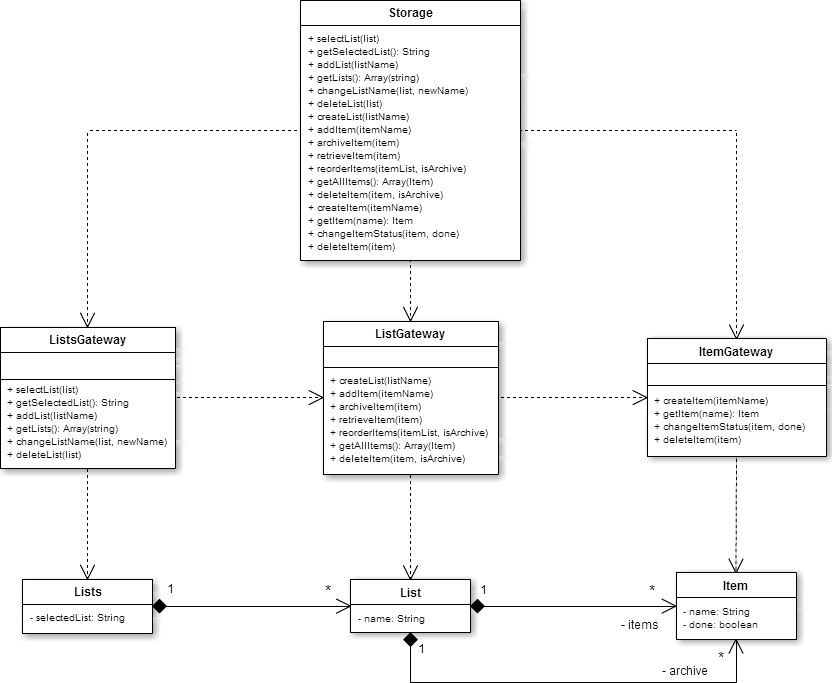
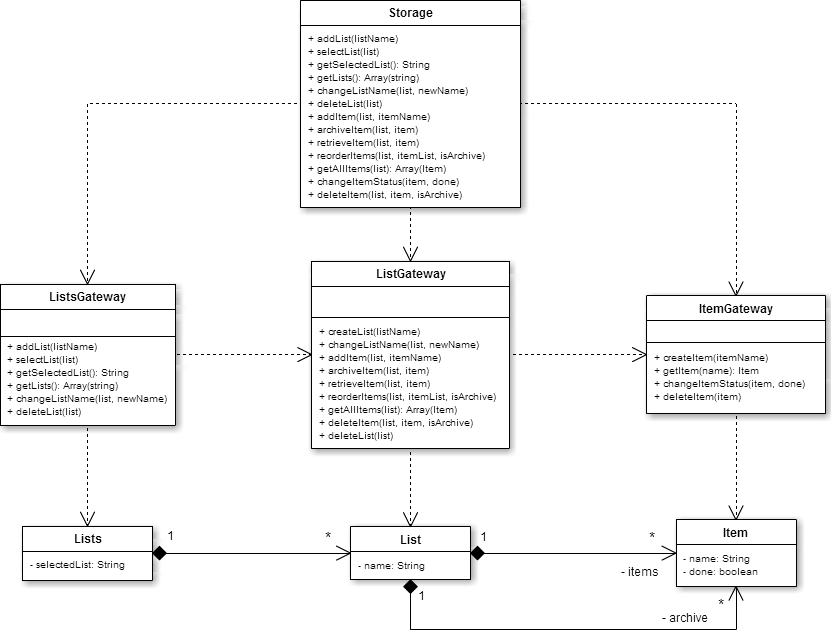
Updated services readme. Fixed list deletion bug. Tested gateway interconnection.

diff --git a/src/js/service/storage.js b/src/js/service/storage.js
@@ -128,6 +128,78 @@ module.exports = function(listsGateway, listGateway, itemGateway) {
 		return true;
 	};
 
+	this.addItem = function(list, itemName, callback) {
+		if (!this.init) {
+			this.getLists(function() {
+				self.init = listGateway.addItem(list, itemName, callback);
+			});
+		}
+		else listGateway.addItem(list, itemName, callback);
+	};
+
+	this.archiveItem = function(list, item, callback) {
+		if (!this.init) {
+			this.getLists(function() {
+				self.init = listGateway.archiveItem(list, item, callback);
+			});
+		}
+		else listGateway.archiveItem(list, item, callback);
+	};
+
+	this.retrieveItem = function(list, item, callback) {
+		if (!this.init) {
+			this.getLists(function() {
+				self.init = listGateway.retrieveItem(list, item, callback);
+			});
+		}
+		else listGateway.retrieveItem(list, item, callback);
+	};
+
+	this.reorderItems = function(list, itemList, isArchive, callback) {
+		if (!this.init) {
+			this.getLists(function() {
+				self.init = listGateway.reorderItems(list, itemList, isArchive, callback);
+			});
+		}
+		else listGateway.reorderItems(list, itemList, isArchive, callback);
+	};
+
+	this.getAllItems = function(list, callback) {
+		if (!this.init) {
+			this.getLists(function() {
+				self.init = listGateway.getAllItems(list, callback);
+			});
+		}
+		else listGateway.getAllItems(list, callback);
+	};
+
+	/**
+	 * Changes the status of an item between done and not done.
+	 *
+	 * @param {string} item The name of the item to remove
+	 * @param {bool} done The new status for the item
+	 * @param {func(mixed)} callback The callback to be called. Will receive null on error
+	 * @return true
+	 */
+	this.changeItemStatus = function(item, done, callback) {
+		if (!this.init) {
+			this.getLists(function() {
+				self.init = itemGateway.changeItemStatus(item, done, callback);
+			});
+		}
+		else itemGateway.changeItemStatus(item, done, callback);
+	};
+
+	this.deleteItem = function(list, item, isArchive, callback) {
+		if (!this.init) {
+			this.getLists(function() {
+				self.init = listGateway.deleteItem(list, item, isArchive, callback);
+			});
+		}
+		else listGateway.deleteItem(list, item, isArchive, callback);
+	};
+
+
 
 	return this;
 };

diff --git a/src/js/service/list-gateway.js b/src/js/service/list-gateway.js
@@ -10,7 +10,7 @@ module.exports = function(errorManager, itemGateway) {
 	var LIST_PREF = 'list-';
 	var ACTUAL_KEY = 'actual';
 	var ARCHIVE_KEY = 'archive';
-	var NEW_LIST = { actual: [], archive: [] };
+	var NEW_LIST = { actual: [], archive: [] }; // These keys should match the other consts
 
 	var self = this;
 
@@ -38,6 +38,61 @@ module.exports = function(errorManager, itemGateway) {
 
 		return true;
 	};
+
+	/**
+	 * Changes the name of the list if the new name does not exist
+	 * Otherwise it shows an error.
+	 *
+	 * @param {func(mixed)} callback The callback to be called. Will receive null on error
+	 * @return true
+	 */
+	this.changeListName = function(list, newName, callback) {
+		localforage.getItem(LIST_PREF+list).then(function(listContents) {
+			var removeList = localforage.removeItem(LIST_PREF+list);
+			var addList = localforage.setItem(LIST_PREF+newName, listContents);
+
+			// Wait for both operations to finish
+			var promise = Promise.all([removeList, addList]).then(callback).catch(function(err) {
+				self._error(err, callback);
+			});
+		}).catch(function(err) {
+			self._error(err, callback);
+		});
+
+		return true;
+	}
+
+	this.addItem = function(list, itemName, callback) {
+		localforage.getItem(LIST_PREF+list)
+	}
+
+	/**
+	 * Deletes the list and all its items in cascade from the storage.
+	 *
+	 * @param {array} listName The name of the list to delete
+	 * @param {func(mixed)} callback The callback to be called. Will receive null on error
+	 * @return true
+	 */
+	this.deleteList = function(listName, callback) {
+		localforage.getItem(LIST_PREF+listName).then(function(list) {
+			var items = _.union(list[ACTUAL_KEY], list[ARCHIVE_KEY]);
+			var promises = [];
+
+			// Remove the list
+			promises.push(localforage.removeItem(LIST_PREF+listName));
+
+			// Delete all the items in the list
+			for (var i = items.length - 1; i >= 0; i--) {
+				promises.push(itemGateway.deleteItem(items[i]));
+			}
+
+			// Wait for all the operations to finish
+			Promise.all(promises).then(callback).catch(function(err) {
+				self._error(err, callback);
+			});
+		});
+		return true;
+	}
 
 
 

diff --git a/src/js/service/lists-gateway.js b/src/js/service/lists-gateway.js
@@ -9,9 +9,6 @@ module.exports = function(errorManager, listGateway) {
 	// Consts: DB's key names and prefixes
 	var SELECTED_LIST = "selected-list";
 	var LISTS_KEY = 'lists';
-	var LIST_PREF = 'list-';
-	var ACTUAL_KEY = 'actual';
-	var ARCHIVE_KEY = 'archive';
 
 	// Starting lists
 	var STARTING_LISTS = ['Shopping List'];
@@ -145,18 +142,10 @@ module.exports = function(errorManager, listGateway) {
 				var changeListName = localforage.setItem(LISTS_KEY, lists);
 
 				// Change the key of the list to keep consistency
-				localforage.getItem(LIST_PREF+list).then(function(listContents) {
-					var removeList = localforage.removeItem(LIST_PREF+list);
-					var addList = localforage.setItem(LIST_PREF+newName, listContents);
-
-					// Finally wait for all three operations to finish
-					Promise.all([changeListName, removeList, addList]).then(callback).catch(function(err) {
-						error = true;
+				listGateway.changeListName(list, newName, function(res) {
+					changeListName.then(callback).catch(function(err) {
 						self._error(err, callback);
 					});
-				}).catch(function(err) {
-					error = true;
-					self._error(err, callback);
 				});
 			}
 		}).catch(function(err) {
@@ -181,14 +170,11 @@ module.exports = function(errorManager, listGateway) {
 			lists.splice(index, 1);
 			var removeListName = localforage.setItem(LISTS_KEY, lists);
 			// Remove the list
-			var removeList = localforage.removeItem(LIST_PREF+list);
-
-			// TODO Remove the items
-
-			// Wait for the operations to finish
-			Promise.all([removeListName, removeList]).then(callback).catch(function(err) {
-				error = true;
-				self._error(err, callback);
+			listGateway.deleteList(list, function() {
+				removeListName.then(callback).catch(function(err) {
+					error = true;
+					self._error(err, callback);
+				});
 			});
 		}).catch(function(err) {
 			error = true;

diff --git a/src/js/service/item-gateway.js b/src/js/service/item-gateway.js
@@ -8,7 +8,8 @@ module.exports = function(errorManager) {
 
 	// Consts: DB's key names and prefixes
 	var ITEM_PREF = 'item-';
-	var NEW_ITEM = {done: false};
+	var DONE_KEY = 'done';
+	var NEW_ITEM = {done: false}; // These keys should match the other consts
 
 	var self = this;
 
@@ -48,7 +49,10 @@ module.exports = function(errorManager) {
 		var promise = localforage.getItem(ITEM_PREF+name);
 		if (typeof callback != 'function') return promise;
 		else {
-			promise.then(callback).catch(function(err) {
+			promise.then(function(result) {
+				var item = {name: name, done: result[DONE_KEY]};
+				callback(item);
+			}).catch(function(err) {
 				self._error(err, callback);
 			});
 		}
@@ -66,7 +70,7 @@ module.exports = function(errorManager) {
 	 */
 	this.changeItemStatus = function(name, done, callback) {
 		localforage.getItem(ITEM_PREF+name).then(function(item) {
-			item.done = done;
+			item[DONE_KEY] = done;
 			localforage.setItem(ITEM_PREF+name, item).then(callback).catch(function(err) {
 				self._error(err, callback);
 			});

diff --git a/src/js/controller/toolbar.js b/src/js/controller/toolbar.js
@@ -94,7 +94,7 @@ module.exports = function($scope, $mdMenu, $mdDialog, $mdToast, storage){
 		// Delete the list from the app
 		$scope.lists.splice($scope.lists.indexOf(listToDelete), 1);
 		$scope.currentList = $scope.lists[0];
-		self.onListChange({list: $scope, updateProducts: true.lists[0]});
+		self.onListChange({list: $scope.lists[0], updateProducts: true});
 		// Show toast with UNDO action
 		var toast =	$mdToast.simple()
 			.textContent('List deleted')

diff --git a/README.md b/README.md
@@ -3,10 +3,10 @@
 *Offline Web Shopping List*. [IN DEVELOPMENT]
 
 OWLS is a full webapp made for learning purposes that will be able to:
-- Store several **lists of items**
-- Mark every item as **done** or not done
-- **Archive** an item to the back of the list for later easy retrieval
-- Keep on working while you are out of connection, as in my supermarket, because it **stores all the data in your device**
+- Store several **lists of items**.
+- Mark every item as **done** or not done.
+- **Archive** an item to the back of the list for later easy retrieval.
+- Keep on working while you are out of connection, as in my supermarket, because it **stores all the data in your device**.
 - Help you do all that superfast: **Swipe** those items off to the archive!
 
 Sample of the current state of the app:
